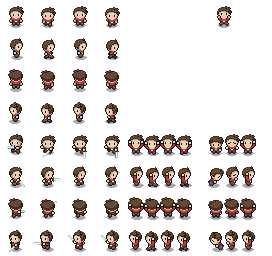
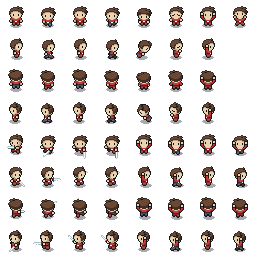
lift and carry state and animation

diff --git a/core/src/main/java/io/horrorshow/renderer/PlayerRenderer.java b/core/src/main/java/io/horrorshow/renderer/PlayerRenderer.java
@@ -19,6 +19,9 @@ public class PlayerRenderer implements Renderer {
     private final Map<Direction, TextureRegion> standTexture = new HashMap<>();
     private final Map<Direction, Animation<TextureRegion>> walkAnimations = new HashMap<>();
     private final Map<Direction, Animation<TextureRegion>> swordAnimations = new HashMap<>();
+    private final Map<Direction, Animation<TextureRegion>> lift = new HashMap<>();
+    private final Map<Direction, TextureRegion> carryStand = new HashMap<>();
+    private final Map<Direction, Animation<TextureRegion>> carryWalk = new HashMap<>();
     private final Guy player;
     private final Sprite sprite = new Sprite();
 
@@ -26,22 +29,40 @@ public class PlayerRenderer implements Renderer {
         this.player = player;
         var region = atlas.findRegion("character");
 
-        standTexture.put(DOWN, new TextureRegion(region, 0, 0, 32, 32));
-        standTexture.put(RIGHT, new TextureRegion(region, 0, 32, 32, 32));
-        standTexture.put(UP, new TextureRegion(region, 0, 2 * 32, 32, 32));
-        standTexture.put(LEFT, new TextureRegion(region, 0, 3 * 32, 32, 32));
+        for (int y = 0; y < TEX_Y_DIR_ORDER.length; y++) {
+            standTexture.put(TEX_Y_DIR_ORDER[y], new TextureRegion(region, 0, y * 32, 32, 32));
+            carryStand.put(TEX_Y_DIR_ORDER[y], new TextureRegion(region, 4 * 32, 4 * 32 + y * 32, 32, 32));
+        }
+//        standTexture.put(DOWN, new TextureRegion(region, 0, 0, 32, 32));
+//        standTexture.put(RIGHT, new TextureRegion(region, 0, 32, 32, 32));
+//        standTexture.put(UP, new TextureRegion(region, 0, 2 * 32, 32, 32));
+//        standTexture.put(LEFT, new TextureRegion(region, 0, 3 * 32, 32, 32));
 
         Array<TextureRegion> frames = new Array<>();
         for (int y = 0; y < 4; y++) {
+            // walk
             for (int x = 1; x < 4; x++) {
                 frames.add(new TextureRegion(region, x * 32, y * 32, 32, 32));
             }
             walkAnimations.put(TEX_Y_DIR_ORDER[y], new Animation<>(0.1f, frames));
             frames.clear();
+            // sword hit
             for (int x = 0; x < 4; x++) {
                 frames.add(new TextureRegion(region, x * 32, 4 * 32 + y * 32, 32, 32));
             }
             swordAnimations.put(TEX_Y_DIR_ORDER[y], new Animation<>(0.1f, frames));
+            frames.clear();
+            // lift
+            for (int x = 0; x < 3; x++) {
+                frames.add(new TextureRegion(region, 4 * 32 + x * 32, y * 32, 32, 32));
+            }
+            lift.put(TEX_Y_DIR_ORDER[y], new Animation<>(0.3f, frames));
+            frames.clear();
+            // carry walking
+            for (int x = 1; x < 4; x++) {
+                frames.add(new TextureRegion(region, 4 * 32 + x * 32, 4 * 32 + y * 32, 32, 32));
+            }
+            carryWalk.put(TEX_Y_DIR_ORDER[y], new Animation<>(0.1f, frames));
             frames.clear();
         }
 
@@ -65,6 +86,14 @@ public class PlayerRenderer implements Renderer {
                 return walkAnimations.get(player.orientation).getKeyFrame(state.stateTimer(), true);
             case SWORD:
                 return swordAnimations.get(player.orientation).getKeyFrame(state.stateTimer(), false);
+            case LIFT:
+                return lift.get(player.orientation).getKeyFrame(state.stateTimer(), false);
+            case CARRY:
+                if (state.isMoving()) {
+                    return carryWalk.get(player.orientation).getKeyFrame(state.stateTimer(), true);
+                } else {
+                    return carryStand.get(player.orientation);
+                }
             case STAND:
             default:
                 return standTexture.get(player.orientation);

diff --git a/core/src/main/java/io/horrorshow/state/PlayerState.java b/core/src/main/java/io/horrorshow/state/PlayerState.java
@@ -3,6 +3,7 @@ package io.horrorshow.state;
 import io.horrorshow.objects.Guy;
 
 public class PlayerState {
+    // TODO proper state machine
     private final Guy player;
     private State state;
     private float stateTimer = 0.0f;
@@ -22,12 +23,21 @@ public class PlayerState {
             selectDefaultState();
         }
         if (stateTimer > state.duration) {
-            resetToDefault();
+            if (state == State.LIFT) {
+                carry();
+            } else {
+                resetToDefault();
+            }
         }
     }
 
+    private void carry() {
+        state = State.CARRY;
+        stateTimer = 0.0f;
+    }
+
     public boolean canMove() {
-        return isDefaultState();
+        return isDefaultState() || state == State.CARRY;
     }
 
     private boolean isDefaultState() {
@@ -61,10 +71,21 @@ public class PlayerState {
         return state;
     }
 
+    public void lift() {
+        if (state == State.CARRY) {
+            resetToDefault();
+        } else {
+            state = State.LIFT;
+            stateTimer = 0.0f;
+        }
+    }
+
     public enum State {
         STAND(Float.MAX_VALUE),
         WALK(Float.MAX_VALUE),
-        SWORD(0.4f);
+        SWORD(0.4f),
+        LIFT(0.9f),
+        CARRY(Float.MAX_VALUE);
 
         public float duration;
 

diff --git a/core/src/main/java/io/horrorshow/objects/Guy.java b/core/src/main/java/io/horrorshow/objects/Guy.java
@@ -79,6 +79,13 @@ public class Guy extends Observable {
         if (Gdx.input.isKeyJustPressed(Input.Keys.J) || Gdx.input.isTouched()) {
             swordAttack();
         }
+        if(Gdx.input.isKeyJustPressed(Input.Keys.C)) {
+            lift();
+        }
+    }
+
+    private void lift() {
+        state.lift();
     }
 
     private void swordAttack() {
